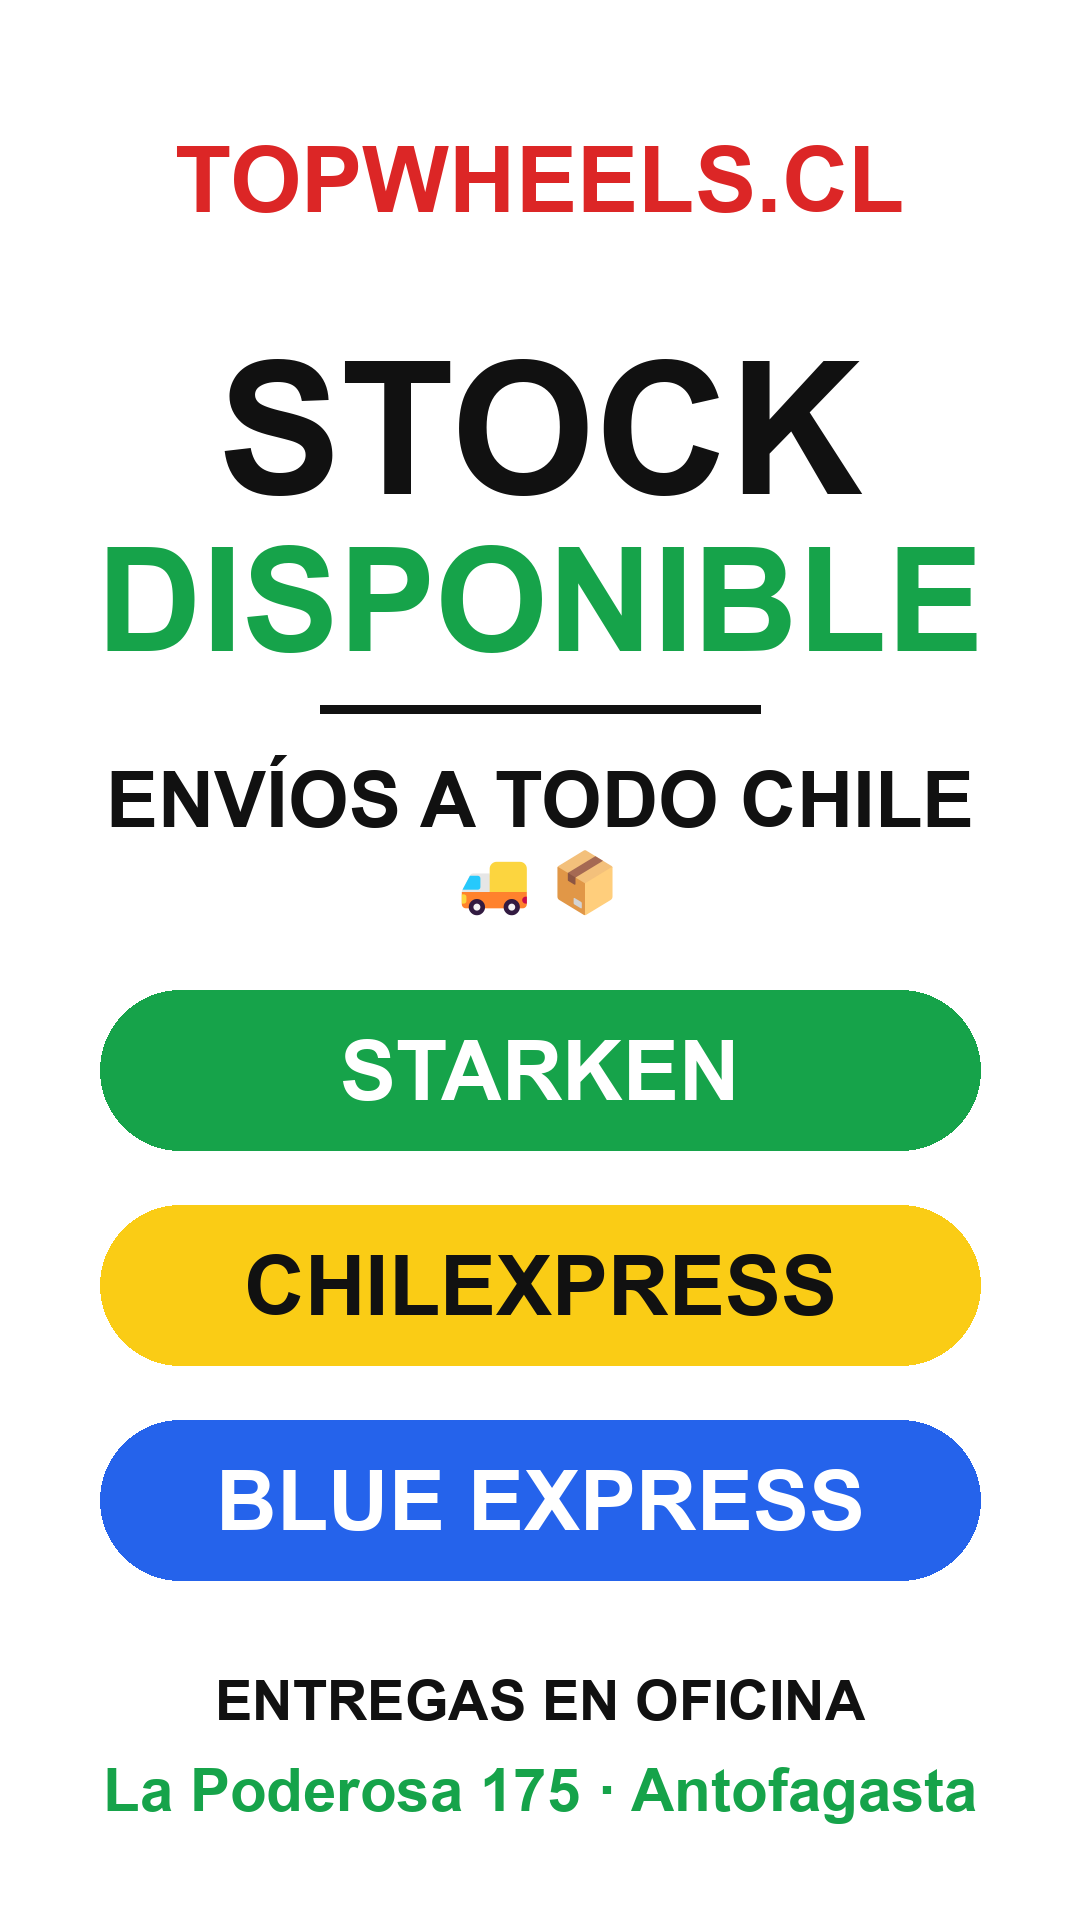
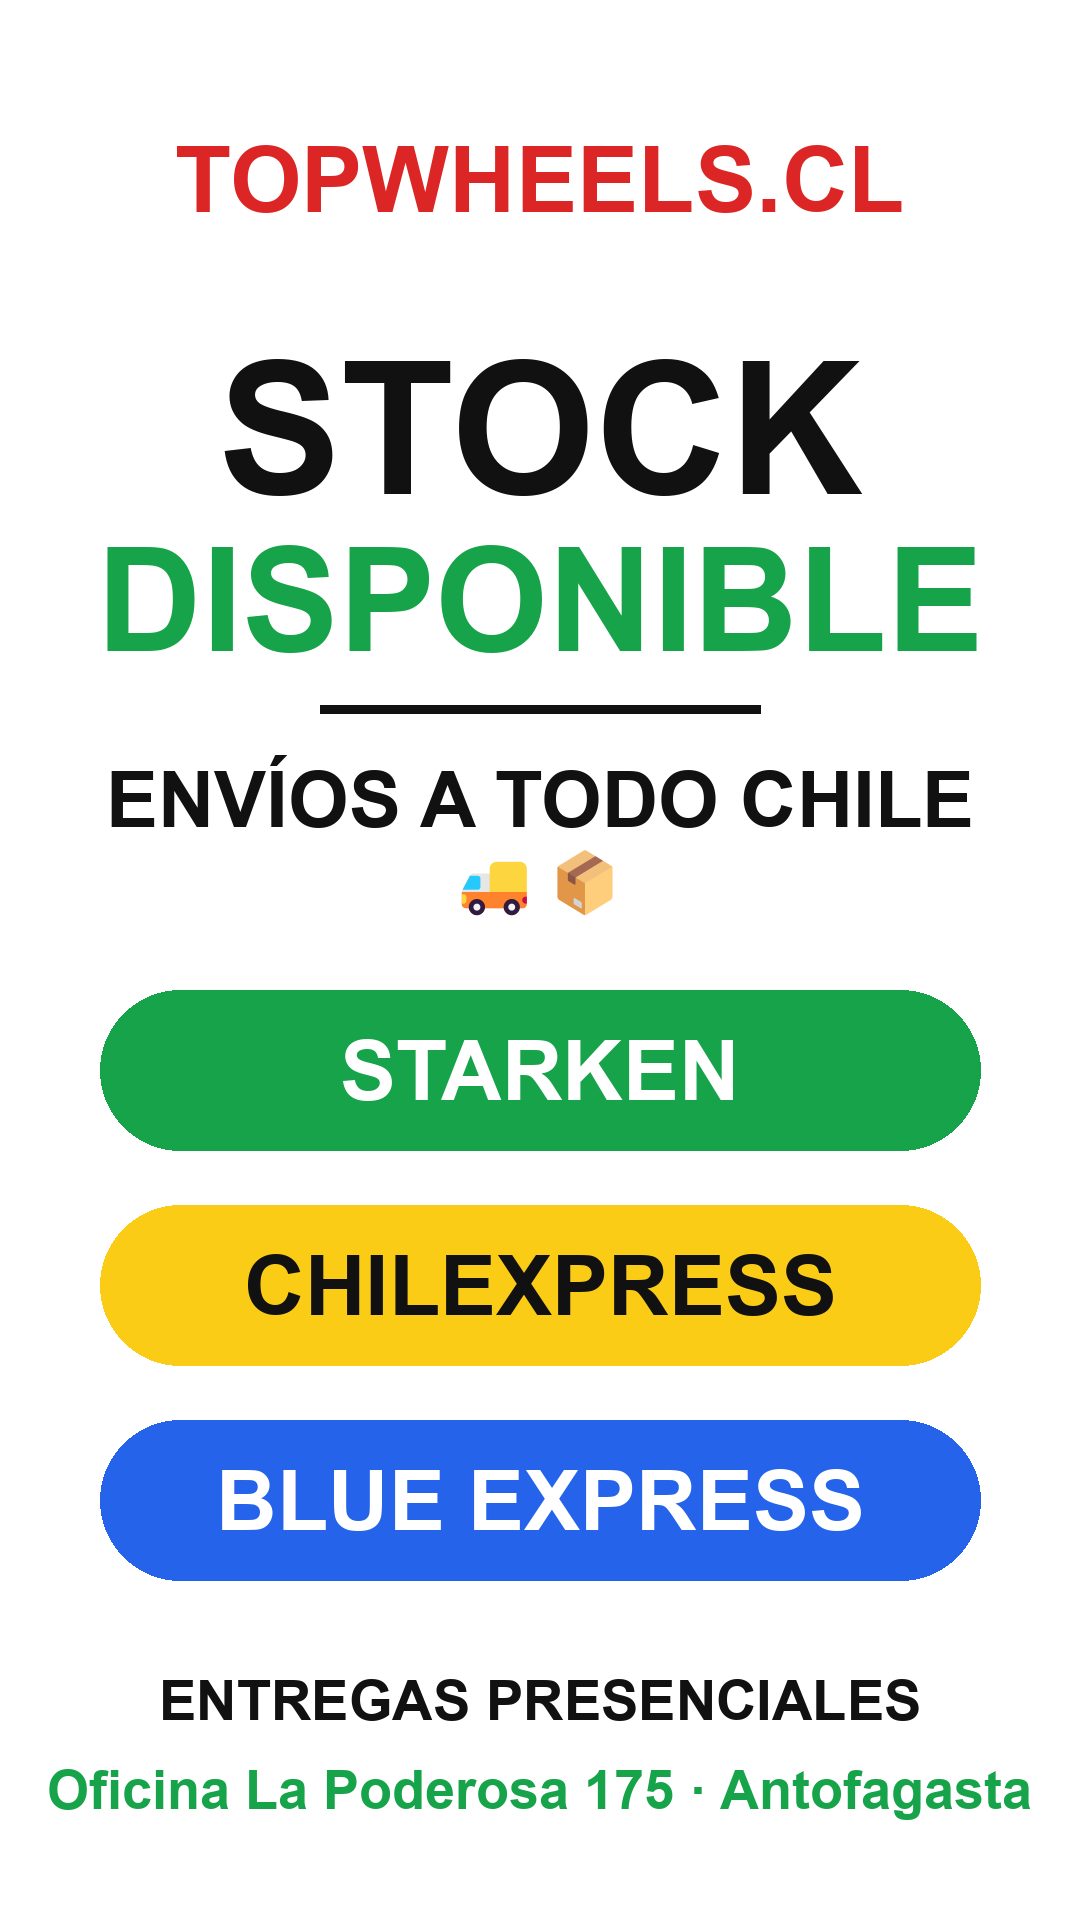
fix(ig): dirección completa en promo — Oficina La Poderosa 175 (entregas presenciales)

Changed region(s): [[0.0306, 0.875, 0.9472, 0.9688]]

diff --git a/scripts/gen-promo-story.py b/scripts/gen-promo-story.py
@@ -41,10 +41,10 @@ for name, bg, fg in bands:
     d.text((W/2, y+80), name, font=font(ARIAL_B, 84), fill=fg, anchor='mm')
     y += 215
 
-# ── Entrega en oficina ── (y ≈ 1635 acá)
-d.text((W/2, 1700), "ENTREGAS EN OFICINA", font=font(ARIAL_B, 56), fill=(17,17,17), anchor='mm')
-d.text((W/2, 1790), "La Poderosa 175 · Antofagasta", font=font(ARIAL_B, 60), fill=(22, 163, 74), anchor='mm')
+# ── Entrega presencial ── (y ≈ 1635 acá)
+d.text((W/2, 1700), "ENTREGAS PRESENCIALES", font=font(ARIAL_B, 56), fill=(17,17,17), anchor='mm')
+d.text((W/2, 1790), "Oficina La Poderosa 175 · Antofagasta", font=font(ARIAL_B, 54), fill=(22, 163, 74), anchor='mm')
 
-out = r'C:\Users\aronr\AppData\Local\Temp\claude\C--WINDOWS-system32\9cb5b8dc-97fe-4b7f-a026-5e9bd055191f\scratchpad\promo-story.png'
+out = r'worker\public\ig\promo.png'
 img.save(out, optimize=True)
 print('OK', out)
